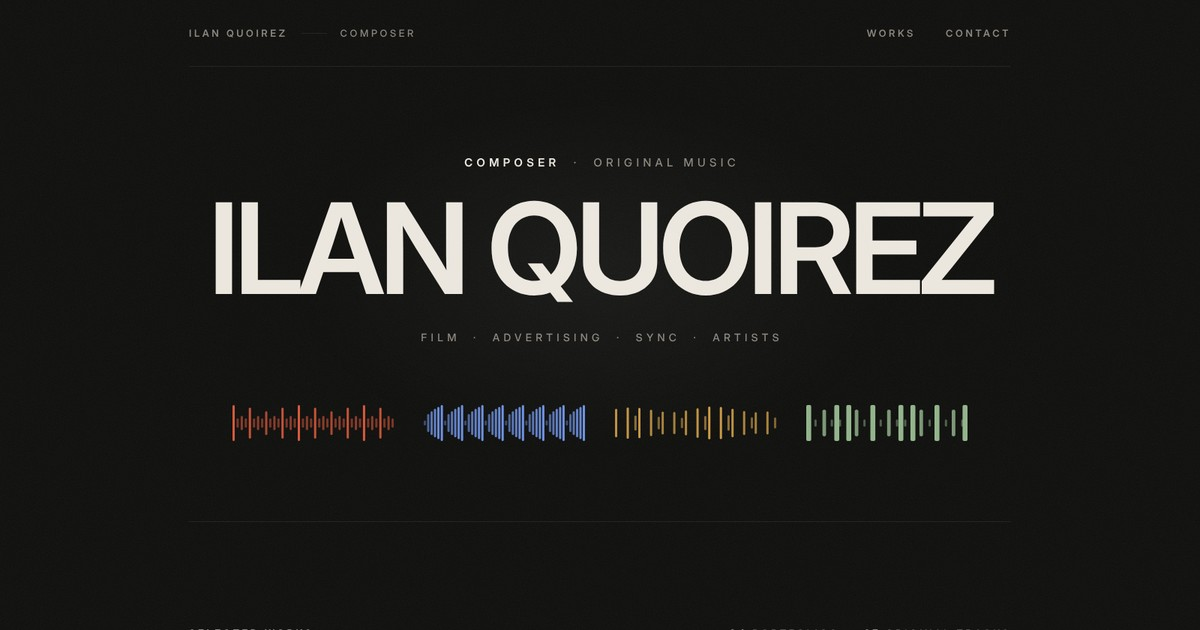
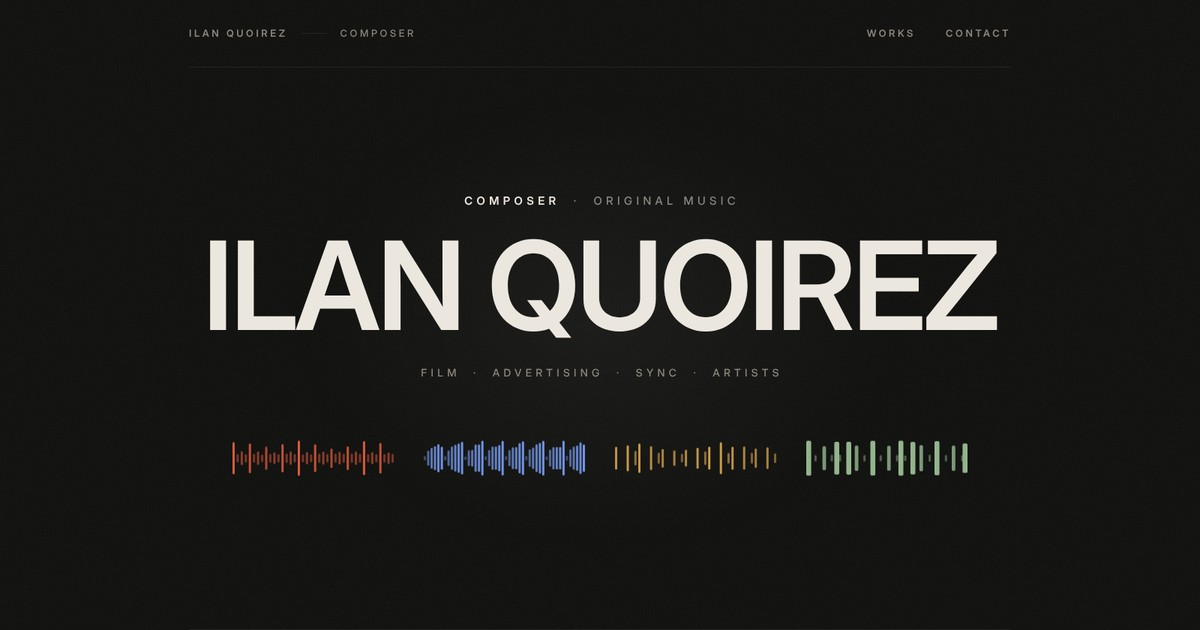
Add files via upload

diff --git a/index.html b/index.html
@@ -44,12 +44,12 @@ main,header,footer{position:relative;z-index:1}
 .nav a:hover{color:var(--ink)}
 
 /* hero */
-.hero{position:relative;padding:clamp(80px,14vh,170px) 0 clamp(70px,12vh,140px);text-align:center;
+.hero{position:relative;min-height:calc(100vh - 89px);min-height:calc(100svh - 89px);display:flex;flex-direction:column;justify-content:center;padding:60px 0 90px;text-align:center;
   border-top:1px solid var(--rule);border-bottom:1px solid var(--rule)}
 .hero::before{content:"";position:absolute;inset:0;background:radial-gradient(55% 60% at 50% 45%,rgba(255,255,255,.045),rgba(0,0,0,0) 70%);pointer-events:none}
 .kicker{font-size:clamp(11px,1.2vw,15px);letter-spacing:.36em;padding-left:.36em;font-weight:500;color:var(--mute)}
 .kicker b{color:var(--ink);font-weight:600}
-h1{margin-top:clamp(14px,2vw,26px);font-size:clamp(44px,11.5vw,168px);font-weight:600;letter-spacing:-.045em;line-height:.95;white-space:nowrap}
+h1{margin-top:clamp(14px,2vw,26px);font-size:clamp(44px,11vw,164px);font-weight:600;letter-spacing:-.025em;line-height:.95;white-space:nowrap}
 .fields{margin-top:clamp(16px,2.2vw,30px);font-size:clamp(10px,1.1vw,14px);letter-spacing:.38em;padding-left:.38em;font-weight:500;color:var(--mute)}
 .wave{display:block;margin:clamp(40px,6vw,76px) auto 0;width:min(100%,980px);height:auto;overflow:visible}
 .wave rect{transform-box:fill-box;transform-origin:center}
@@ -112,10 +112,23 @@ footer .wrap{display:flex;justify-content:space-between;align-items:center;heigh
 }
 
 /* ---------- motion ---------- */
+.cue{position:absolute;left:50%;bottom:28px;width:1px;height:44px;margin-left:-.5px;background:rgba(236,231,222,.12);overflow:hidden}
+.cue i{position:absolute;left:0;top:-40%;width:1px;height:40%;background:rgba(236,231,222,.7);animation:cue 2.4s cubic-bezier(.6,0,.4,1) infinite}
+@keyframes cue{0%{top:-40%}70%,100%{top:100%}}
+@media (max-width:760px){
+  .nav{font-size:10.5px;letter-spacing:.2em}
+  .nav .who{font-weight:600}
+  .nav ul a{font-weight:500}
+  .nav ul{gap:20px}
+  .hero{min-height:calc(100vh - 71px);min-height:calc(100svh - 71px);padding:40px 0 80px}
+  h1{letter-spacing:-.02em}
+}
+@media (prefers-reduced-motion:reduce){.cue i{animation:none;top:30%}}
+
 .site-head{position:sticky;top:0;z-index:20;transition:background .5s,backdrop-filter .5s,border-color .5s;border-bottom:1px solid transparent}
 .site-head.scrolled{background:rgba(14,14,13,.78);-webkit-backdrop-filter:blur(14px);backdrop-filter:blur(14px);border-bottom-color:var(--rule)}
-h1.settle{opacity:0;letter-spacing:-.025em;animation:settle 2.2s cubic-bezier(.22,.61,.36,1) .25s forwards}
-@keyframes settle{to{opacity:1;letter-spacing:-.045em}}
+h1.settle{opacity:0;letter-spacing:-.008em;animation:settle 2.2s cubic-bezier(.22,.61,.36,1) .25s forwards}
+@keyframes settle{to{opacity:1;letter-spacing:-.025em}}
 .intro{opacity:0;transform:translateY(12px);animation:fadeup 1s cubic-bezier(.2,.7,.2,1) forwards}
 @keyframes fadeup{to{opacity:1;transform:none}}
 @keyframes breathe{from{transform:scaleY(1)}to{transform:scaleY(.5)}}
@@ -133,7 +146,7 @@ h1.settle{opacity:0;letter-spacing:-.025em;animation:settle 2.2s cubic-bezier(.2
 .mail::after{content:"";position:absolute;left:0;right:0;bottom:-1px;height:1px;background:var(--ink);transform:scaleX(0);transform-origin:left;transition:transform .7s cubic-bezier(.2,.7,.2,1)}
 .mail:hover::after{transform:scaleX(1)}
 @media (prefers-reduced-motion:reduce){
-  h1.settle,.intro{animation:none;transform:none;opacity:1;letter-spacing:-.045em}
+  h1.settle,.intro{animation:none;transform:none;opacity:1;letter-spacing:-.025em}
   .reveal{opacity:1;transform:none;transition:none}
   .thumb,.mail::after{transition:none}.eq b{animation:none}
 }
@@ -156,6 +169,7 @@ h1.settle{opacity:0;letter-spacing:-.025em;animation:settle 2.2s cubic-bezier(.2
       <h1 class="settle">ILAN QUOIREZ</h1>
       <p class="fields intro" style="animation-delay:1.1s">FILM &nbsp;·&nbsp; ADVERTISING &nbsp;·&nbsp; SYNC &nbsp;·&nbsp; ARTISTS</p>
       <svg class="wave" id="wave" viewBox="0 0 980 60" aria-hidden="true"></svg>
+      <a href="#works" class="cue intro" style="animation-delay:2.2s" aria-label="Scroll to works"><i></i></a>
     </div>
   </div>
 
